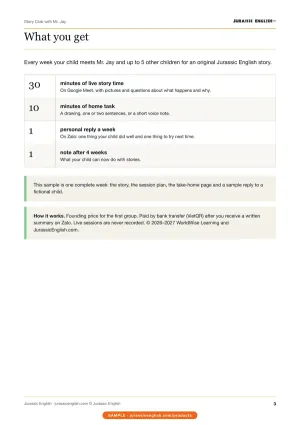
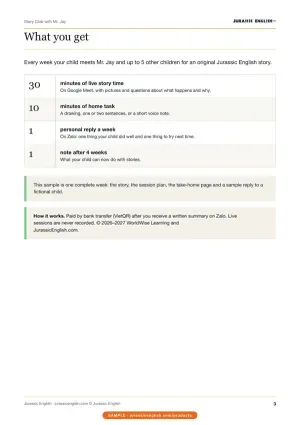
Story Club: remove outdated "Founding price for the first group" wording (#315)
The Story Club sample still told parents the price was a founding price for
the first group, which reads wrong for every later group. Removed it from:

- sample card image p2 (600 px and 300 px copies)
- full sample viewer pages 3 and 8 (watermark kept), with cache revisions
- the sample's accessible text (page hashes updated)
- the price note on /story-club, EN and VI

Price, schedule and payment steps are unchanged.

Changed region(s): [[0.12, 0.4894, 0.87, 0.5506]]

diff --git a/tests/sample-text.test.ts b/tests/sample-text.test.ts
@@ -80,10 +80,12 @@ test('build-time preparation rejects unknown/incomplete CLI arguments instead of
 });
 
 
-test('only the sixteen approved changed viewer images receive content-bound browser cache revisions', () => {
+test('only the eighteen approved changed viewer images receive content-bound browser cache revisions', () => {
   const expected = ['ielts-writing-teacher-pack-pg01.webp', 'parent-pack-l2-pg01.webp', 'parent-pack-l2-pg02.webp', 'parent-pack-l2-pg03.webp', 'parent-pack-l2-pg04.webp', 'parent-pack-l2-pg09.webp', 'parent-pack-l2-pg10.webp',
     // 11 Nov 2026: Printable Pack v2 (new Lina art; v2.1 footer on the picture pages).
-    ...[5, 6, 7, 8, 9, 10, 11, 13, 15].map(n => `printable-pack-l1-pg${String(n).padStart(2, '0')}.webp`)];
+    ...[5, 6, 7, 8, 9, 10, 11, 13, 15].map(n => `printable-pack-l1-pg${String(n).padStart(2, '0')}.webp`),
+    // 12 Nov 2026: Story Club sample, founding-price line removed.
+    'story-club-pg03.webp', 'story-club-pg08.webp'];
   assert.deepEqual(Object.keys(SAMPLE_PAGE_REVISIONS).sort(), expected.sort());
   let revised = 0;
   for (const product of PRODUCTS.filter(p => p.group !== 'bundles')) for (const url of productSampleFiles(product.sample!).pages) {
@@ -95,5 +97,5 @@ test('only the sixteen approved changed viewer images receive content-bound brow
       assert.equal(parsed.searchParams.get('v'), prefix); revised++;
     } else assert.equal(parsed.search, '', `${file}: unchanged browser URL`);
   }
-  assert.equal(revised, 16);
+  assert.equal(revised, 18);
 });

diff --git a/src/i18n/content/storyClub.ts b/src/i18n/content/storyClub.ts
@@ -44,7 +44,7 @@ const en: StoryClubCopy = {
     heading: 'The paid round',
     amount: '590.000₫',
     unit: 'for 4 weeks',
-    note: 'Founding price for the first group. Pay by bank transfer (VietQR) on the reserve page, after you have read the written summary there.',
+    note: 'Pay by bank transfer (VietQR) on the reserve page, after you have read the written summary there.',
     seats: 'Up to 6 children per group',
     // Funnel audit fix 6 (2 Nov 2026): the day, time, length, place and the no-recording rule, from the product data.
     schedule: 'Saturday mornings, 9:00 · 30 minutes on Google Meet · never recorded',
@@ -129,7 +129,7 @@ const vi: StoryClubCopy = {
     heading: 'Vòng học có phí',
     amount: '590.000₫',
     unit: 'cho 4 tuần',
-    note: 'Giá ưu đãi cho nhóm đầu tiên. Thanh toán bằng chuyển khoản (VietQR) trên trang đặt chỗ, sau khi bạn đọc bản tóm tắt bằng văn bản ở đó.',
+    note: 'Thanh toán bằng chuyển khoản (VietQR) trên trang đặt chỗ, sau khi bạn đọc bản tóm tắt bằng văn bản ở đó.',
     seats: 'Tối đa 6 bạn nhỏ mỗi nhóm',
     schedule: 'Sáng thứ Bảy, 9:00 · 30 phút qua Google Meet · không bao giờ được ghi âm, ghi hình',
     starts: 'Ngày bắt đầu sẽ được thông báo sau buổi học thử miễn phí. Bạn quyết định sau khi học thử.',

diff --git a/src/i18n/content/samplePages.ts b/src/i18n/content/samplePages.ts
@@ -71,4 +71,7 @@ export const SAMPLE_PAGE_REVISIONS: Record<string, string> = {
   'printable-pack-l1-pg11.webp': '87998a3a8bac',
   'printable-pack-l1-pg13.webp': 'f879d611626b',
   'printable-pack-l1-pg15.webp': '9bd9b2748885',
+  // 12 Nov 2026: Story Club sample: outdated "Founding price for the first group" line removed (pages 3 and 8).
+  'story-club-pg03.webp': '483de8090686',
+  'story-club-pg08.webp': '0e43f0dd640f',
 };
